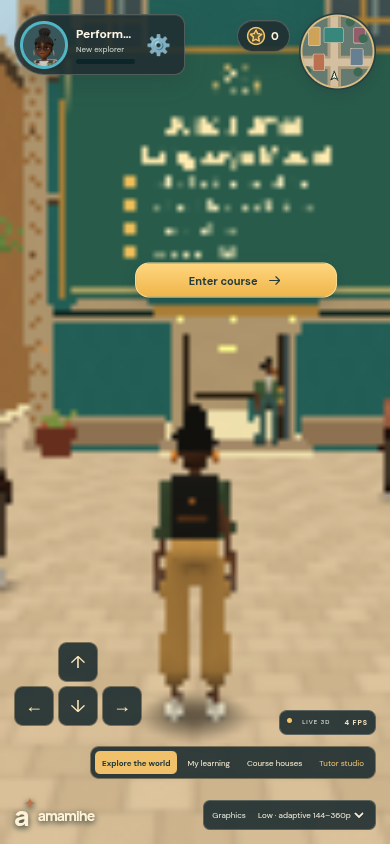
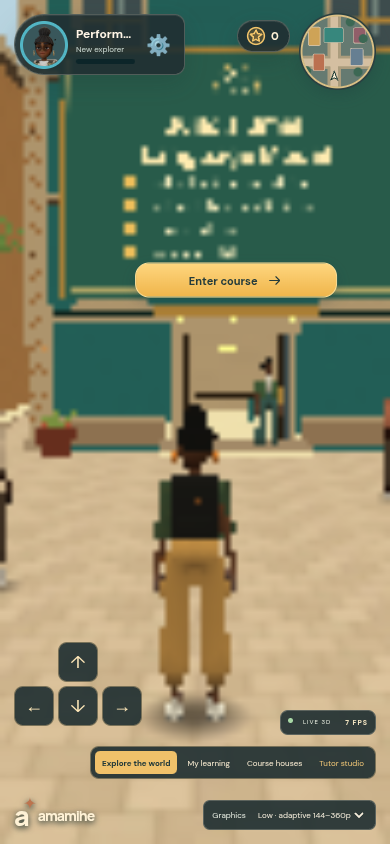
Record cold-transfer verification for adaptive rendering

diff --git a/docs/status/STEP_05_STATUS.md b/docs/status/STEP_05_STATUS.md
@@ -9,3 +9,7 @@ A service worker stores at most 32 successful public art responses. It excludes 
 ## Verification and limits
 
 Node checks cover connection policy, bounded render reduction and smaller texture files. Browser checks cover cached offline reads, an aborted download followed by recovery, and exclusion of private paths. Existing course journeys exercise manual resolution and reload persistence. Automated audits use throttled Chromium/software WebGL; they do not establish physical 2 GB-device support. Initial load, GPU/OS memory and frame-rate budgets require representative hardware validation. No compatibility claim is made for unavailable WebGL, offline grading, or offline external practice services.
+
+## October 11 measurement
+
+Final cold-transfer audit (service workers blocked to avoid timing omissions), 390×844 Chromium/software WebGL, 2 Mbps down, 100 ms latency, 4× CPU: 35,337 ms to playable, 8/9/8 FPS, 65,543 active triangles, 1,527,091 transfer bytes, 528,384,000 bytes total browser PSS. The earlier October 10 run recorded 60,110 ms, 3–6 FPS, 102,620 triangles and 1,935,274 bytes. Runs are not physical-device benchmarks and memory remains above the provisional budget. The initial cached audit undercounted network transfer and is not used for comparison. This milestone delivers adaptive controls and reduced assets; reference-device/load/memory acceptance remains open for evaluation. All 11 browser journeys pass; the existing 49 Node checks pass with one optional PostgreSQL skip, and all three resource-policy/geometry checks pass separately.
